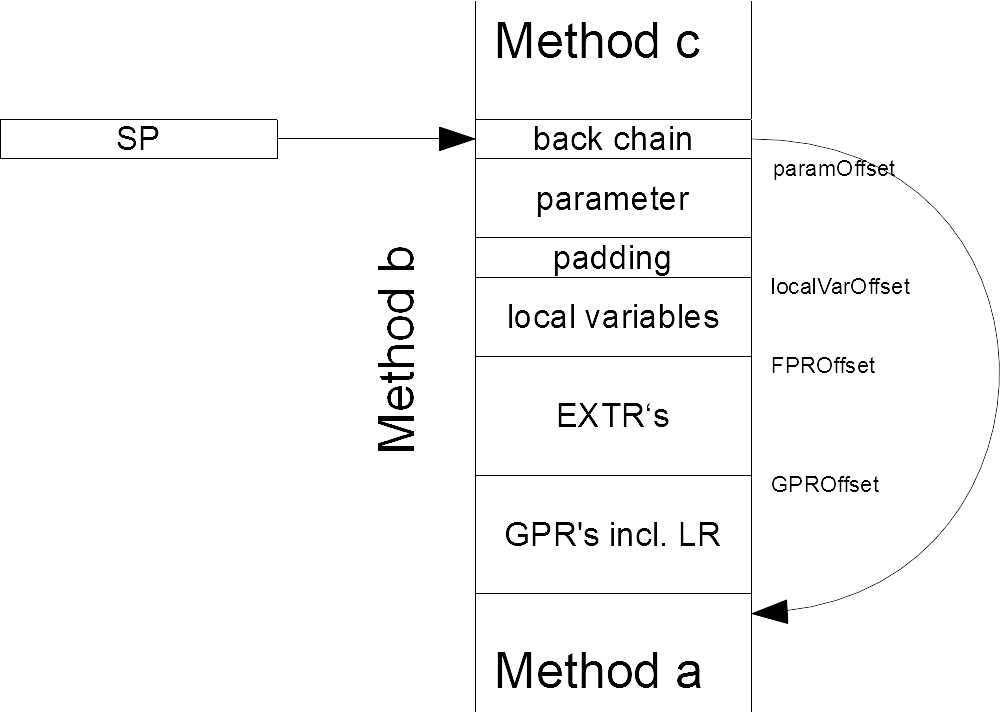
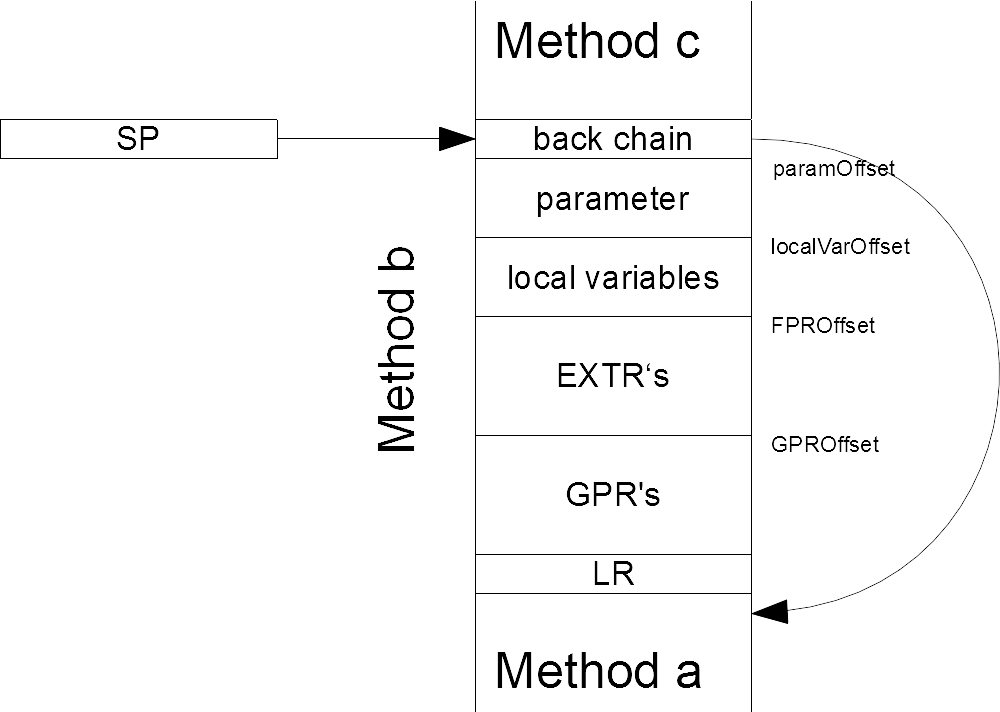
check branch distance, improve stack frame

diff --git a/src/ch/ntb/inf/deep/cg/arm/CodeGenARM.java b/src/ch/ntb/inf/deep/cg/arm/CodeGenARM.java
@@ -180,12 +180,14 @@ public class CodeGenARM extends CodeGen implements InstructionOpcs, Registers {
 			node = (SSANode) node.next;
 		}
 		node = (SSANode)ssa.cfg.rootNode;
+		if (dbg) StdStreams.vrb.println("\nresolve local branch targets");
 		while (node != null) {	// resolve local branch targets
 			if (node.nofInstr > 0) {
 				if ((node.instructions[node.nofInstr-1].ssaOpcode == sCbranch) || (node.instructions[node.nofInstr-1].ssaOpcode == sCswitch)) {
 					int instr = code.instructions[node.codeEndIndex];
 					CFGNode[] successors = node.successors;
 					if ((instr & 0x0f000000) == armB) {		
+						if (dbg) StdStreams.vrb.println("local branch at instruction: " + node.codeEndIndex);
 						if ((instr & 0xffff) != 0) {	// switch
 							int nofCases = instr & 0xffff;
 							int k;
@@ -194,20 +196,24 @@ public class CodeGenARM extends CodeGen implements InstructionOpcs, Registers {
 								code.instructions[node.codeEndIndex+1-(nofCases-k)*2] |= (branchOffset - 2) & 0xffffff;
 							}
 							int branchOffset = ((SSANode)successors[k]).codeStartIndex - node.codeEndIndex;
+							if ((branchOffset >= 0x1000000) || (branchOffset <= 0xff000000)) {ErrorReporter.reporter.error(650); return;}
 							code.instructions[node.codeEndIndex] &= 0xff000000;
 							code.instructions[node.codeEndIndex] |= (branchOffset - 2) & 0xffffff;
 						} else {
 							int branchOffset;
-							if ((instr & (condAlways << 28)) == condAlways << 28)
+							if ((instr & (condAlways << 28)) == condAlways << 28) {	// no choice, only one successor
 								branchOffset = ((SSANode)successors[0]).codeStartIndex - node.codeEndIndex;
-							else 
+							} else {	// conditionally branch to second choice
 								branchOffset = ((SSANode)successors[1]).codeStartIndex - node.codeEndIndex;
+							}
+							if ((branchOffset >= 0x1000000) || (branchOffset <= 0xff000000)) {ErrorReporter.reporter.error(650); return;}
 							code.instructions[node.codeEndIndex] |= (branchOffset - 2) & 0xffffff;	// account for pipeline
 						}
 					}
 				} else if (node.instructions[node.nofInstr-1].ssaOpcode == sCreturn) {
 					if (node.next != null) {
 						int branchOffset = code.iCount - node.codeEndIndex;
+						if ((branchOffset >= 0x1000000) || (branchOffset <= 0xff000000)) {ErrorReporter.reporter.error(650); return;}
 						code.instructions[node.codeEndIndex] |= (branchOffset - 2) & 0xffffff;	// account for pipeline
 					}
 				}
@@ -339,7 +345,7 @@ public class CodeGenARM extends CodeGen implements InstructionOpcs, Registers {
 	 * @return Nof bytes on the stack
 	 */
 	private static int calcStackSize(Code32 code) {
-		int size = 8 + callParamSlotsOnStack * 4 + nofNonVolGPR * 4 + nofNonVolFPR * 8 + RegAllocator.maxLocVarStackSlots * 4;	// includes LR and back trace
+		int size = 8 + callParamSlotsOnStack * 4 + nofNonVolGPR * 4 + nofNonVolFPR * 8 + RegAllocator.maxLocVarStackSlots * 4;	// includes LR and SP for back trace
 //		if (enFloatsInExc) size += nonVolStartEXTR * 8 + 8;	// save volatile FPR's and FPSCR
 //		int size = 4 + callParamSlotsOnStack * 4 + RegAllocator.maxLocVarStackSlots * 4;
 //		int padding = (16 - (size % 16)) % 16;
@@ -603,9 +609,9 @@ public class CodeGenARM extends CodeGen implements InstructionOpcs, Registers {
 				int refReg = src1Reg;	// ref to array;
 				int indexReg = src2Reg;	// index into array;
 				if (meth.ssa.cfg.method.owner == Type.wktString && opds[0].owner instanceof MonadicRef && ((MonadicRef)opds[0].owner).item == stringCharRef) {	// string access needs special treatment
-//					createIrDrAd(ppcLwz, res.regGPR1, refReg, objectSize);	// read field "count", must be first field
-					createDataProcMovReg(code, armLsl, condAlways, dReg, refReg, noShift, objectSize);	// read field "count", must be first field
-//					createItrap(ppcTw, TOifgeU, indexReg, res.regGPR1);
+					createDataProcMovReg(code, armLsl, condAlways, scratchReg, refReg, noShift, objectSize);	// read field "count", must be first field
+					createDataProcCmpReg(code, armCmp, condAlways, indexReg, scratchReg, noShift, 0);
+					createSvc(code, armSvc, condCS, 7);
 					switch (res.type & 0x7fffffff) {	// type to read
 					case tByte:
 						createDataProcMovReg(code, armLsl, condAlways, LR, indexReg, noShift, 1);
@@ -1617,14 +1623,16 @@ public class CodeGenARM extends CodeGen implements InstructionOpcs, Registers {
 							int refReg = src1Reg;
 							if (dbg) StdStreams.vrb.println("call to " + m.name + ": copy parameters");
 							copyParameters(code, opds);
-//							createItrap(ppcTwi, TOifequal, refReg, 0);
+							createDataProcCmpImm(code, armCmp, condAlways, refReg, 0);
+							createSvc(code, armSvc, condEQ, 7);
 							insertBLAndFixup(code, m);
 						}
 					} else {	// invokevirtual 
 						int refReg = src1Reg;
 						int offset = Linker32.tdMethTabOffset;
 						offset -= m.index * Linker32.slotSize; 
-//						createItrap(ppcTwi, TOifequal, refReg, 0);
+						createDataProcCmpImm(code, armCmp, condAlways, refReg, 0);
+						createSvc(code, armSvc, condEQ, 7);
 						createLSWordImm(code, armLdr, condAlways, LR, refReg, 4, 1, 0, 0);
 						createLSWordImm(code, armLdr, condAlways, LR, LR, -offset, 1, 0, 0);
 						if (dbg) StdStreams.vrb.println("call to " + m.name + ": copy parameters");
@@ -2311,19 +2319,19 @@ public class CodeGenARM extends CodeGen implements InstructionOpcs, Registers {
 		code.incInstructionNum();
 	}
 		
-	// branch (immediate) (B, BL, BLX(imm)) 
+	// branch (immediate) relative, +-32M (B, BL, BLX(imm)) 
 	private void createBranchImm(Code32 code, int op, int cond, int imm24) {
 		code.instructions[code.iCount] = (cond << 28) | op | (imm24 & 0xffffff);
 		code.incInstructionNum();
 	}
 	
-	// branch (register) (including BLX(reg), BX, BXJ)
+	// branch (register) absolute, whole range (including BLX(reg), BX, BXJ)
 	private void createBranchReg(Code32 code, int op, int cond, int Rm) {
 		code.instructions[code.iCount] = (cond << 28) | op | (Rm << 0);
 		code.incInstructionNum();
 	}
 	
-	// Load/store word and unsigned byte (immediate)	(LDR, LDRB, STR, STRB, LDRH, LDRSH, LDRSB, STRH)
+	// load/store word and unsigned byte (immediate)	(LDR, LDRB, STR, STRB, LDRH, LDRSH, LDRSB, STRH)
 	// P = 1 -> preindexed, U = 1 -> add offset, W = 1 -> write back
 	private void createLSWordImm(Code32 code, int opCode, int cond, int Rt, int Rn, int imm12, int P, int U, int W) {
 		if (opCode == armLdr || opCode == armLdrb || opCode == armStr || opCode == armStrb)
@@ -2338,7 +2346,7 @@ public class CodeGenARM extends CodeGen implements InstructionOpcs, Registers {
 		code.instructions[code.iCount] = (cond << 28) | opCode | (Rt << 12) | (0xf << 16) | (imm12 << 0) | (P << 24) | (U << 23) | (W << 21);
 		code.incInstructionNum();
 	}
-	// Load/store word and unsigned byte (register)	(LDR, LDRB, STR, STRB, LDRH, LDRSH, LDRSB, STRH)
+	// load/store word and unsigned byte (register)	(LDR, LDRB, STR, STRB, LDRH, LDRSH, LDRSB, STRH)
 	// LDRH, LDRSH, LDRSB, STRH do not allow register shifts 
 	// P = 1 -> preindexed, U = 1 -> add offset, W = 1 -> write back
 	private void createLSWordReg(Code32 code, int opCode, int cond, int Rt, int Rn, int Rm, int shiftType, int shiftAmount, int P, int U, int W) {
@@ -2467,47 +2475,6 @@ public class CodeGenARM extends CodeGen implements InstructionOpcs, Registers {
 	}
 	
 	/*
-	 * inserts a load register literal instruction
-	 * the address of a class constant is taken relative to the PC and will later be fixed
-	 */
-	private void loadConstantFromPoolAndFixup(Code32 code, int reg, Item item) {
-		if (code.lastFixup < 0 || code.lastFixup > 4096) {ErrorReporter.reporter.error(602); return;}
-		createLSWordLit(code, armLdr, condAlways, reg, code.lastFixup, 1, 1, 0);
-		code.lastFixup = code.iCount - 1;
-		code.fixups[code.fCount] = item;
-		code.fCount++;
-		int len = code.fixups.length;
-		if (code.fCount == len) {
-			Item[] newFixups = new Item[2 * len];
-			for (int k = 0; k < len; k++)
-				newFixups[k] = code.fixups[k];
-			code.fixups = newFixups;
-		}		
-	}
-
-	/*
-	 * reads or writes the content of a class variable
-	 * both instructions will later be fixed
-	 */
-	private void loadStoreVarAndFixup(Code32 code, int opCode, int reg, Item item) {
-		if (code.lastFixup < 0 || code.lastFixup > 4096) {ErrorReporter.reporter.error(602); return;}
-//		createLSWordLit(code, armLdr, condAlways, LR, code.lastFixup, 1, 1, 0);
-		createMovw(code, armMovw, condAlways, LR, code.lastFixup);
-		createMovw(code, armMovt, condAlways, LR, 0);
-		createLSWordImm(code, opCode, condAlways, reg, LR, 0, 1, 1, 0);
-		code.lastFixup = code.iCount - 3;
-		code.fixups[code.fCount] = item;
-		code.fCount++;
-		int len = code.fixups.length;
-		if (code.fCount == len) {
-			Item[] newFixups = new Item[2 * len];
-			for (int k = 0; k < len; k++)
-				newFixups[k] = code.fixups[k];
-			code.fixups = newFixups;
-		}		
-	}
-	
-	/*
 	 * loads the address of a method or a class field
 	 * both instructions will later be fixed
 	 */
@@ -2526,26 +2493,6 @@ public class CodeGenARM extends CodeGen implements InstructionOpcs, Registers {
 			code.fixups = newFixups;
 		}		
 	}
-	
-//	/*
-//	 * writes the content of a class variable
-//	 * both instructions will later be fixed
-//	 */
-//	private void storeVarAndFixup(Code32 code, int opCode, int srcReg, Item item) {
-//		if (code.lastFixup < 0 || code.lastFixup > 4096) {ErrorReporter.reporter.error(602); return;}
-//		createLSWordLit(code, armLdr, condAlways, LR, code.lastFixup, 1, 1, 0);
-//		createLSWordImm(code, opCode, condAlways, srcReg, LR, 0, 1, 1, 0);
-//		code.lastFixup = code.iCount - 2;
-//		code.fixups[code.fCount] = item;
-//		code.fCount++;
-//		int len = code.fixups.length;
-//		if (code.fCount == len) {
-//			Item[] newFixups = new Item[2 * len];
-//			for (int k = 0; k < len; k++)
-//				newFixups[k] = code.fixups[k];
-//			code.fixups = newFixups;
-//		}		
-//	}
 	
 	/*
 	 * inserts a BL instruction
@@ -2638,12 +2585,12 @@ public class CodeGenARM extends CodeGen implements InstructionOpcs, Registers {
 	}
 
 	private void insertProlog(Code32 code, int stackSize) {
-		code.iCount = 0;
-		
+		code.iCount = 0;	
+		createDataProcMovReg(code, armMov, condAlways, scratchReg, stackPtr, noShift, 0);	// make copy for back trace
 		int regList = 1 << LR;
 		if (nofNonVolGPR > 0) 
 			for (int i = 0; i < nofNonVolGPR; i++) regList += 1 << (topGPR - i); 
-		createBlockDataTransfer(code, armPush, condAlways, regList);
+		createBlockDataTransfer(code, armPush, condAlways, regList);	// store LR and nonvolatiles
 		// enFloatsInExc could be true, even if this is no exception method
 		// such a case arises when this method is called from within an exception method
 //		if (enFloatsInExc) {
@@ -2653,7 +2600,7 @@ public class CodeGenARM extends CodeGen implements InstructionOpcs, Registers {
 //			createIrS(code, ppcIsync, 0);	// must context synchronize after setting of FP bit
 //		}
 //		int offset = FPRoffset;
-		if (nofNonVolFPR > 0) {
+		if (nofNonVolFPR > 0) {	// store nonvolatiles EXTR 
 			if (nofNonVolFPR <= 16)
 				createBlockDataTransferExtr(code, armVpush, condAlways, (topEXTR - nofNonVolFPR + 1), nofNonVolFPR, false);
 			else {
@@ -2669,8 +2616,9 @@ public class CodeGenARM extends CodeGen implements InstructionOpcs, Registers {
 //			createIrD(code, ppcMffs, 0);
 //			createIrSrAd(code, ppcStfd, 0, stackPtr, offset);
 //		}
-		if (stackSize > 0) createDataProcImm(code, armSub, condAlways, stackPtr, stackPtr, stackSize - ((nofNonVolGPR+1) * 4 + nofNonVolFPR * 8));
-//		if (stackSize > 0) createDataProcImm(code, armSub, condAlways, stackPtr, stackPtr, stackSize);
+		int localStorage = stackSize - (8 + nofNonVolGPR * 4 + nofNonVolFPR * 8);
+		if (localStorage > 0) createDataProcImm(code, armSub, condAlways, stackPtr, stackPtr, localStorage);	// add space for locals and parameters
+		createBlockDataTransfer(code, armPushSingle, condAlways, scratchReg << 12);	// store back trace
 		if (dbg) {
 			StdStreams.vrb.print("moveGPRsrc = ");
 			for (int i = 0; moveGPRsrc[i] != 0; i++) StdStreams.vrb.print(moveGPRsrc[i] + ","); 
@@ -2689,19 +2637,18 @@ public class CodeGenARM extends CodeGen implements InstructionOpcs, Registers {
 		for (int i = 0; i < nofMoveGPR; i++) {
 			if (moveGPRsrc[i]+paramStartGPR <= paramEndGPR) {// copy from parameter register
 				if (dbg) StdStreams.vrb.println("Prolog: copy parameter " + moveGPRsrc[i] + " into GPR" + moveGPRdst[i]);
-				if (moveGPRdst[i] < 0x100)
+				if (moveGPRdst[i] < 0x100)	// to other register
 					createDataProcMovReg(code, armMov, condAlways, moveGPRdst[i], moveGPRsrc[i]+paramStartGPR, noShift, 0);
-				else 	// copy to stack slot (locals)
-//					createIrSrAd(code, ppcStw, moveGPRsrc[i]+paramStartGPR, stackPtr, localVarOffset + 4 * (moveGPRdst[i] - 0x100));
+				else 	// to stack slot (locals)
 					createLSWordImm(code, armStr, condAlways, moveGPRsrc[i]+paramStartGPR, stackPtr, code.localVarOffset + 4 * (moveGPRdst[i] - 0x100), 1, 1, 0);
 			} else { // copy from stack slot (parameters)
 				if (dbg) StdStreams.vrb.println("Prolog: copy parameter " + moveGPRsrc[i] + " from stack slot into GPR" + moveGPRdst[i]);
 				if (dbg) StdStreams.vrb.println("stackSize=" + stackSize);
 				if (dbg) StdStreams.vrb.println("paramOffset=" + paramOffset);
 				if (dbg) StdStreams.vrb.println("offset=" + offset);
-				if (moveGPRdst[i] < 0x100)
+				if (moveGPRdst[i] < 0x100)	// to register
 					createLSWordImm(code,armLdr, condAlways, moveGPRdst[i], stackPtr, stackSize + paramOffset + offset, 1, 1, 0);
-				else { 	// copy to stack slot (locals)
+				else { 	// to stack slot (locals)
 					createLSWordImm(code, armLdr, condAlways, scratchReg, stackPtr, stackSize + paramOffset + offset, 1, 1, 0);
 					createLSWordImm(code, armStr, condAlways, scratchReg, stackPtr, code.localVarOffset + 4 * (moveGPRdst[i] - 0x100), 1, 1, 0);
 				}	
@@ -2730,6 +2677,9 @@ public class CodeGenARM extends CodeGen implements InstructionOpcs, Registers {
 
 	private void insertEpilog(Code32 code, int stackSize) {
 		int epilogStart = code.iCount;
+//		createBlockDataTransfer(code, armPopSingle, condAlways, stackPtr << 12);
+		int localStorage = stackSize - (4 + nofNonVolGPR * 4 + nofNonVolFPR * 8);
+		createDataProcImm(code, armAdd, condAlways, stackPtr, stackPtr, localStorage);
 //		int offset = GPRoffset - 8;
 //		if (enFloatsInExc) {
 //			createIrDrAd(ppcLfd, 0, stackPtr, offset);
@@ -2748,8 +2698,6 @@ public class CodeGenARM extends CodeGen implements InstructionOpcs, Registers {
 				createBlockDataTransferExtr(code, armVpop, condAlways, 16, 16, false);
 			}
 		}
-//		if (stackSize > 0) createDataProcImm(code, armAdd, condAlways, stackPtr, stackPtr, stackSize);
-		if (stackSize > 0) createDataProcImm(code, armAdd, condAlways, stackPtr, stackPtr, stackSize - ((nofNonVolGPR+1) * 4 + nofNonVolFPR * 8));
 		int regList = 1 << PC;
 		if (nofNonVolGPR > 0)
 			for (int i = 0; i < nofNonVolGPR; i++) regList += 1 << (topGPR - i); 

diff --git a/src/ch/ntb/inf/deep/cg/arm/RegAllocatorARM.java b/src/ch/ntb/inf/deep/cg/arm/RegAllocatorARM.java
@@ -76,6 +76,8 @@ public class RegAllocatorARM extends RegAllocator implements SSAInstructionOpcs,
 						f.result.reg = reg;
 						lv.ssaInstrStart = f;
 						lv.startRange(f, null, reg);
+//						lv.ssaInstrStart = instrs[0];
+//						lv.startRange(instrs[0], null, reg);
 						lv.endRange(instrs[nofInstructions-1]);
 						if (dbg) StdStreams.vrb.println("\tset range of lv " + lv.toString());
 					}

diff --git a/src/ch/ntb/inf/deep/cg/arm/InstructionOpcs.java b/src/ch/ntb/inf/deep/cg/arm/InstructionOpcs.java
@@ -266,8 +266,10 @@ public interface InstructionOpcs {
 	armStmda = (0x80 << 20),
 	armStmdb = (0x90 << 20),
 	armStmib = (0x98 << 20),
-	armPop   = (0x8bd << 16),
+	armPop   = (0x8bd << 16), 
 	armPush  = (0x92d << 16),
+	armPopSingle   = (0x49d << 16) | 4,
+	armPushSingle  = (0x52d << 16) | 4,
 
 			// various
 	armSvc = 0x0f000000,
